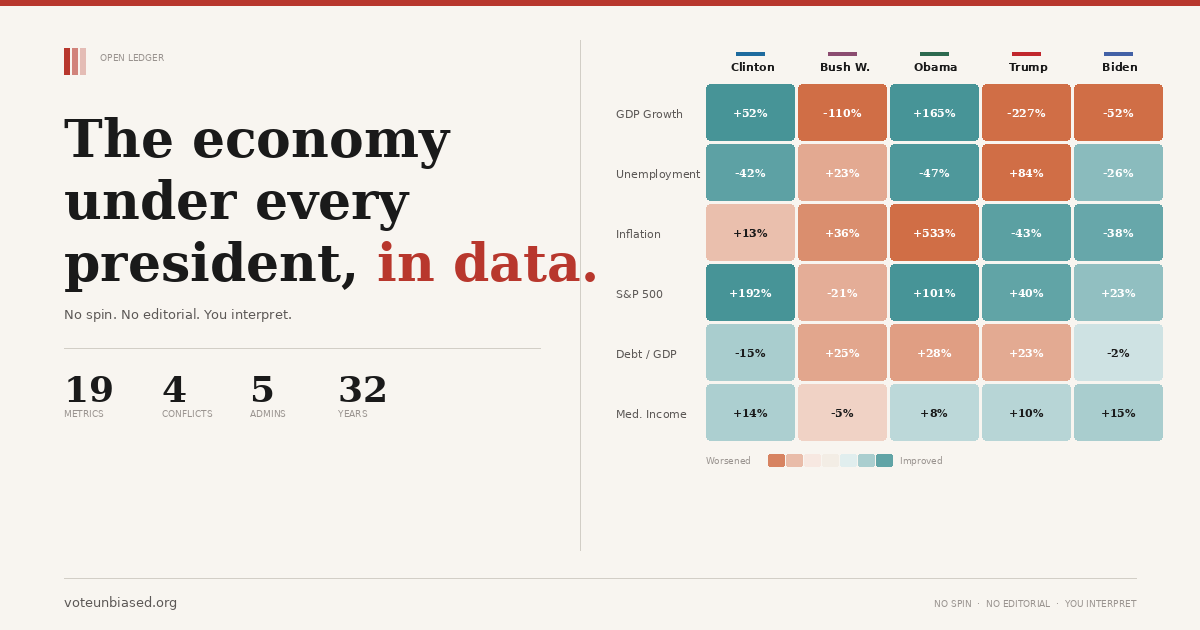
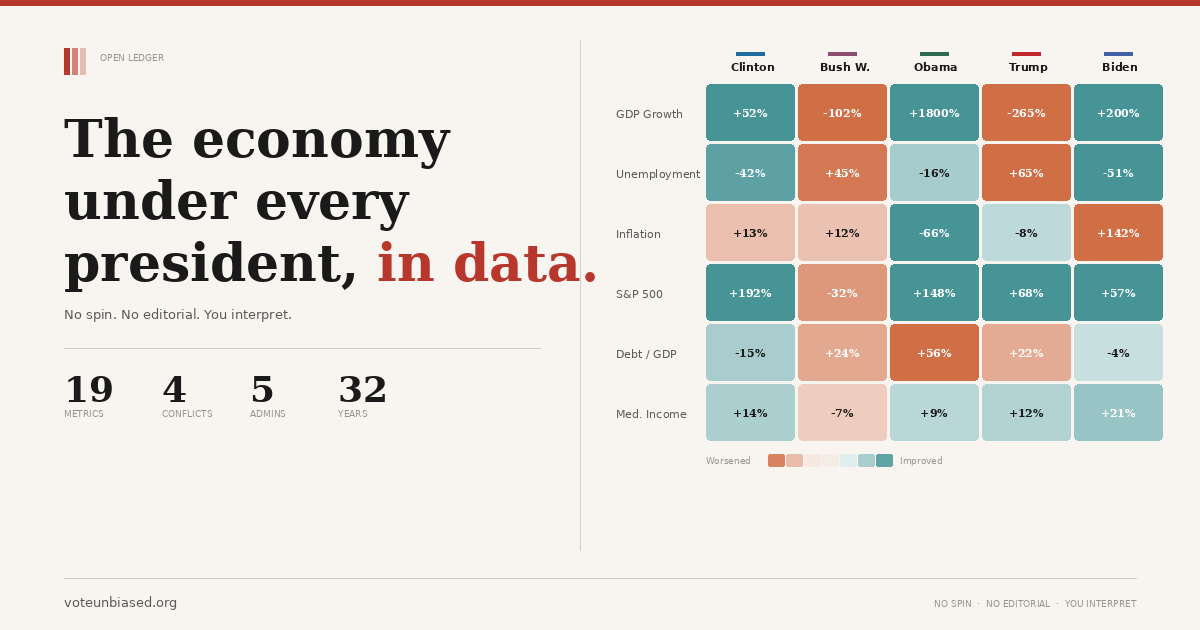
Switch to inherited baselines for all scorecard calculations
Each president's start value is now the previous president's last
value (Clinton keeps its own first year as baseline). This fixes
the gap where transition-year changes were unattributed — e.g.
inflation jumping from 1.2% (Trump 2020) to 4.7% (Biden 2021)
was invisible. Now Biden's inflation shows 1.2% → 2.9% = +142%.

Updated in 6 places: landing page computeHeatmap, dashboard
scores(), summary cards, comparison table, heatmap grid, and
president summary counts. OG image updated to match.

Changed region(s): [[0.6475, 0.1206, 0.9867, 0.6032], [0.925, 0.6333, 0.9558, 0.6635]]

diff --git a/app/dashboard/page.tsx b/app/dashboard/page.tsx
@@ -191,6 +191,18 @@ const MK=Object.keys(M);
 const CATS={growth:"Growth",labor:"Labor Market",prices:"Prices & Wages",people:"Living Standards",fiscal:"Fiscal Health",markets:"Markets",sentiment:"Sentiment"};
 const ML={real_gdp:"GDP",gdp:"GDP%",unemployment:"Unemp",lfpr:"LFPR",jobs:"Jobs",mfg:"Mfg",inflation:"CPI",gas:"Gas",wages:"Wages",median_income:"Inc",poverty:"Pov",inequality:"Ineq",consumer_conf:"Conf",debt_gdp:"D/GDP",deficit:"Budget",sp500:"S&P",trade:"Trade",fed_rate:"Rate",purchasing:"$PWR"};
 
+// Inherited baseline: each president starts from the previous president's last value
+function inheritedStart(mk: string, id: string): number {
+  const m = M[mk];
+  const ai = AID.indexOf(id);
+  const pts = m.d.filter((d: {a:string}) => d.a === id);
+  if (ai > 0) {
+    const prevPts = m.d.filter((d: {a:string}) => d.a === AID[ai - 1]);
+    if (prevPts.length > 0) return prevPts[prevPts.length - 1].v;
+  }
+  return pts.length > 0 ? pts[0].v : 0;
+}
+
 const GLOBAL_METRICS={
   gdp_g:{l:"GDP Growth",u:"%",src:"World Bank/IMF",facts:[{t:"China slowing",x:"10%+ in 2000s → ~5% now."},{t:"India rising",x:"Fastest-growing major economy."}],
     d:[{y:2000,us:4.1,china:8.5,uk:3.4,india:3.8,germany:3.0,japan:2.8,skorea:9.1},{y:2004,us:3.8,china:10.1,uk:2.4,india:7.9,germany:1.2,japan:2.2,skorea:5.2},{y:2008,us:-0.1,china:9.7,uk:-0.3,india:3.1,germany:0.8,japan:-1.2,skorea:3.0},{y:2012,us:2.3,china:7.9,uk:1.4,india:5.5,germany:0.4,japan:1.4,skorea:2.4},{y:2016,us:1.7,china:6.8,uk:2.3,india:8.3,germany:2.2,japan:0.5,skorea:2.9},{y:2020,us:-2.8,china:2.2,uk:-10.4,india:-5.8,germany:-3.8,japan:-4.1,skorea:-0.7},{y:2024,us:2.8,china:4.9,uk:1.1,india:6.8,germany:0.0,japan:0.3,skorea:2.2}]},
@@ -218,8 +230,8 @@ function scores(){
     const changes={};
     for(const id of AID){
       const pts=m.d.filter(d=>d.a===id);
-      if(pts.length<2)continue;
-      const start=pts[0].v;const end=pts[pts.length-1].v;
+      if(pts.length<1)continue;
+      const start=inheritedStart(mk,id);const end=pts[pts.length-1].v;
       const abs=end-start;
       const pct=start!==0?((end-start)/Math.abs(start))*100:0;
       // For inverse metrics (lower=better), improvement is negative change
@@ -1079,14 +1091,14 @@ function App(){
                         {catMetrics.map((k,idx)=>{
                           const mx=M[k];
                           const pts=mx.d.filter(d=>d.a===selectedPres);
-                          if(pts.length<2)return null;
-                          const s=pts[0].v,e=pts[pts.length-1].v;
+                          if(pts.length<1)return null;
+                          const s=inheritedStart(k,selectedPres),e=pts[pts.length-1].v;
                           const pc=s!==0?((e-s)/Math.abs(s))*100:0;
                           const absPc=Math.abs(pc);
                           const imp=mx.inv?pc<0:pc>0;
                           const mnt=absPc<5;
                           const sparkData=pts.map(p=>p.v);
-                          
+
                           let bg,fg;
                           if(mnt){bg=T.neutral;fg=T.gold;}
                           else if(imp){bg=absPc>30?T.improve.strong:absPc>10?T.improve.medium:T.improve.light;fg=absPc>10?"#fff":T.improve.strong;}
@@ -1145,8 +1157,8 @@ function App(){
                       ...catMetrics.map((k,rowIdx)=>{
                         const mx=M[k];
                         const perPres=AID.map(id=>{
-                          const pts=mx.d.filter(d=>d.a===id);if(pts.length<2)return null;
-                          const s=pts[0].v,e=pts[pts.length-1].v;
+                          const pts=mx.d.filter(d=>d.a===id);if(pts.length<1)return null;
+                          const s=inheritedStart(k,id),e=pts[pts.length-1].v;
                           const pc=s!==0?((e-s)/Math.abs(s))*100:0;
                           const imp=mx.inv?pc<0:pc>0;const mnt=Math.abs(pc)<5;
                           const sparkData=pts.map(p=>p.v);
@@ -1198,8 +1210,8 @@ function App(){
                   const a=ADMINS[id];
                   let imp=0,dec=0;
                   MK.forEach(k=>{
-                    const mx=M[k];const pts=mx.d.filter(d=>d.a===id);if(pts.length<2)return;
-                    const s=pts[0].v,e=pts[pts.length-1].v;
+                    const mx=M[k];const pts=mx.d.filter(d=>d.a===id);if(pts.length<1)return;
+                    const s=inheritedStart(k,id),e=pts[pts.length-1].v;
                     const pc=s!==0?((e-s)/Math.abs(s))*100:0;
                     const improved=mx.inv?pc<0:pc>0;const mnt=Math.abs(pc)<5;
                     if(mnt)return;if(improved)imp++;else dec++;
@@ -1418,8 +1430,8 @@ function App(){
           {/* Summary cards */}
           <div className="ol-grid-summary" style={{display:"grid",gridTemplateColumns:mob?"repeat(2,1fr)":`repeat(${Math.min(sel.length,5)},1fr)`,gap:mob?8:10,marginBottom:mob?12:20,order:mob?2:1}}>
             {sel.map((id,idx)=>{const s=sums[id];if(!s)return null;const a=ADMINS[id];
-              const pts=m.d.filter(d=>d.a===id);if(pts.length<2)return null;
-              const start=pts[0].v,end=pts[pts.length-1].v;
+              const pts=m.d.filter(d=>d.a===id);if(pts.length<1)return null;
+              const start=inheritedStart(am,id),end=pts[pts.length-1].v;
               const pct=start!==0?((end-start)/Math.abs(start))*100:0;
               const imp=m.inv?pct<0:pct>0;const mnt=Math.abs(pct)<5;
               const col=mnt?T.gold:imp?T.improve.strong:T.decline.strong;
@@ -1522,9 +1534,9 @@ function App(){
               <tbody>
                 {sel.map(id=>{
                   const pts=m.d.filter(d=>d.a===id);
-                  if(pts.length<2)return null;
+                  if(pts.length<1)return null;
                   const a=ADMINS[id];
-                  const start=pts[0].v;const end=pts[pts.length-1].v;
+                  const start=inheritedStart(am,id);const end=pts[pts.length-1].v;
                   const pctChg=start!==0?((end-start)/Math.abs(start))*100:0;
                   const improved=m.inv?pctChg<0:pctChg>0;
                   const maintained=Math.abs(pctChg)<5;

diff --git a/app/page.tsx b/app/page.tsx
@@ -75,10 +75,19 @@ function computeHeatmap() {
   const out: Record<string, Record<string, { start: number; end: number; pctChange: number; improved: boolean }>> = {};
   for (const [mk, m] of Object.entries(METRICS)) {
     out[mk] = {};
-    for (const id of AID) {
+    for (let ai = 0; ai < AID.length; ai++) {
+      const id = AID[ai];
       const pts = m.d.filter(d => d.a === id);
-      if (pts.length < 2) continue;
-      const start = pts[0].v;
+      if (pts.length < 1) continue;
+
+      // Inherited baseline: use last value of previous admin, or own first value for Clinton
+      let start: number;
+      if (ai > 0) {
+        const prevPts = m.d.filter(d => d.a === AID[ai - 1]);
+        start = prevPts.length > 0 ? prevPts[prevPts.length - 1].v : pts[0].v;
+      } else {
+        start = pts[0].v;
+      }
       const end = pts[pts.length - 1].v;
       const pctChange = ((end - start) / Math.abs(start || 1)) * 100;
       const improved = m.inv ? end < start : end > start;
@@ -483,7 +492,7 @@ function ScorecardSection({ mob, med }: { mob: boolean; med: boolean }) {
             padding: "14px 20px", background: C.paper, borderTop: `1px solid ${C.rule}`,
             fontSize: 11, color: C.sub, letterSpacing: "0.04em", flexWrap: "wrap", gap: 12,
           }}>
-            <span>Each cell = percent change from first to last year of administration.</span>
+            <span>Each cell = percent change from inherited value to last year of administration.</span>
             <div style={{ display: "flex", alignItems: "center", gap: 8 }}>
               <span>Worsened</span>
               <div style={{ display: "flex", border: `1px solid ${C.rule}`, borderRadius: 3, overflow: "hidden" }}>
